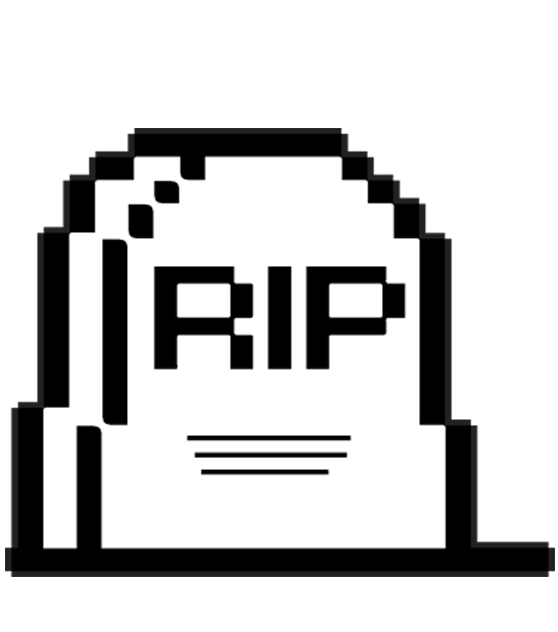
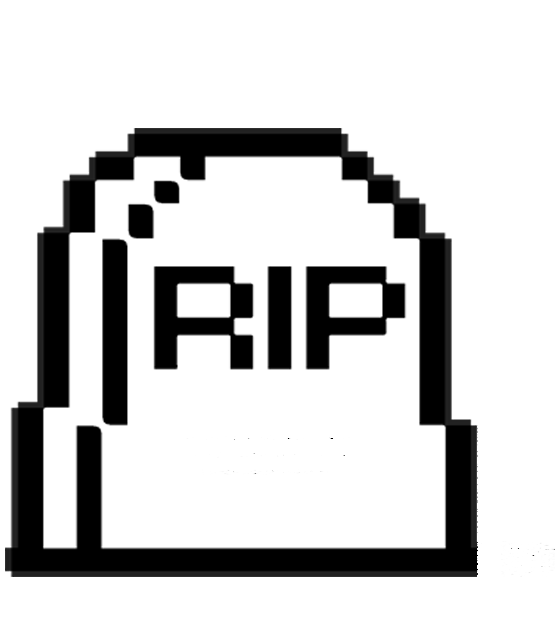
animation tombe pour route details mort

Changed region(s): [[0.3351, 0.6614, 0.6398, 0.7516], [0.853, 0.8418, 1.0, 0.932]]

diff --git a/app/javascript/controllers/night_controller.js b/app/javascript/controllers/night_controller.js
@@ -10,7 +10,7 @@ export default class extends Controller {
     event.preventDefault()
     const form = event.currentTarget.closest(".button_to")
     document.querySelector(".day").classList.add("to_night")
-    
+
 
     setTimeout(() => {
       form.submit()
@@ -21,7 +21,7 @@ export default class extends Controller {
     event.preventDefault()
     const popup = `
     <div class="alert">
-      Tu dois nourrir ton poisson!
+      Tu dois nourrir ton poisson !
     </div>
     `
     document.body.insertAdjacentHTML("beforeend", popup)

diff --git a/app/assets/stylesheets/application.css b/app/assets/stylesheets/application.css
@@ -705,3 +705,25 @@ p{
 .poop-image4 {
   width: 14px;
 }
+
+.causeofdeath{
+  background-color: #000;
+  width: 50px;
+  height: 2px;
+  position: absolute;
+  animation: causeofdeath 1.5s linear infinite;
+
+}
+
+@keyframes causeofdeath {
+  0% {
+    background-color: #476846;
+  }
+  50% {
+    background-color: #000000;
+  }
+
+  100%{
+    background-color: #476846;
+  }
+}
